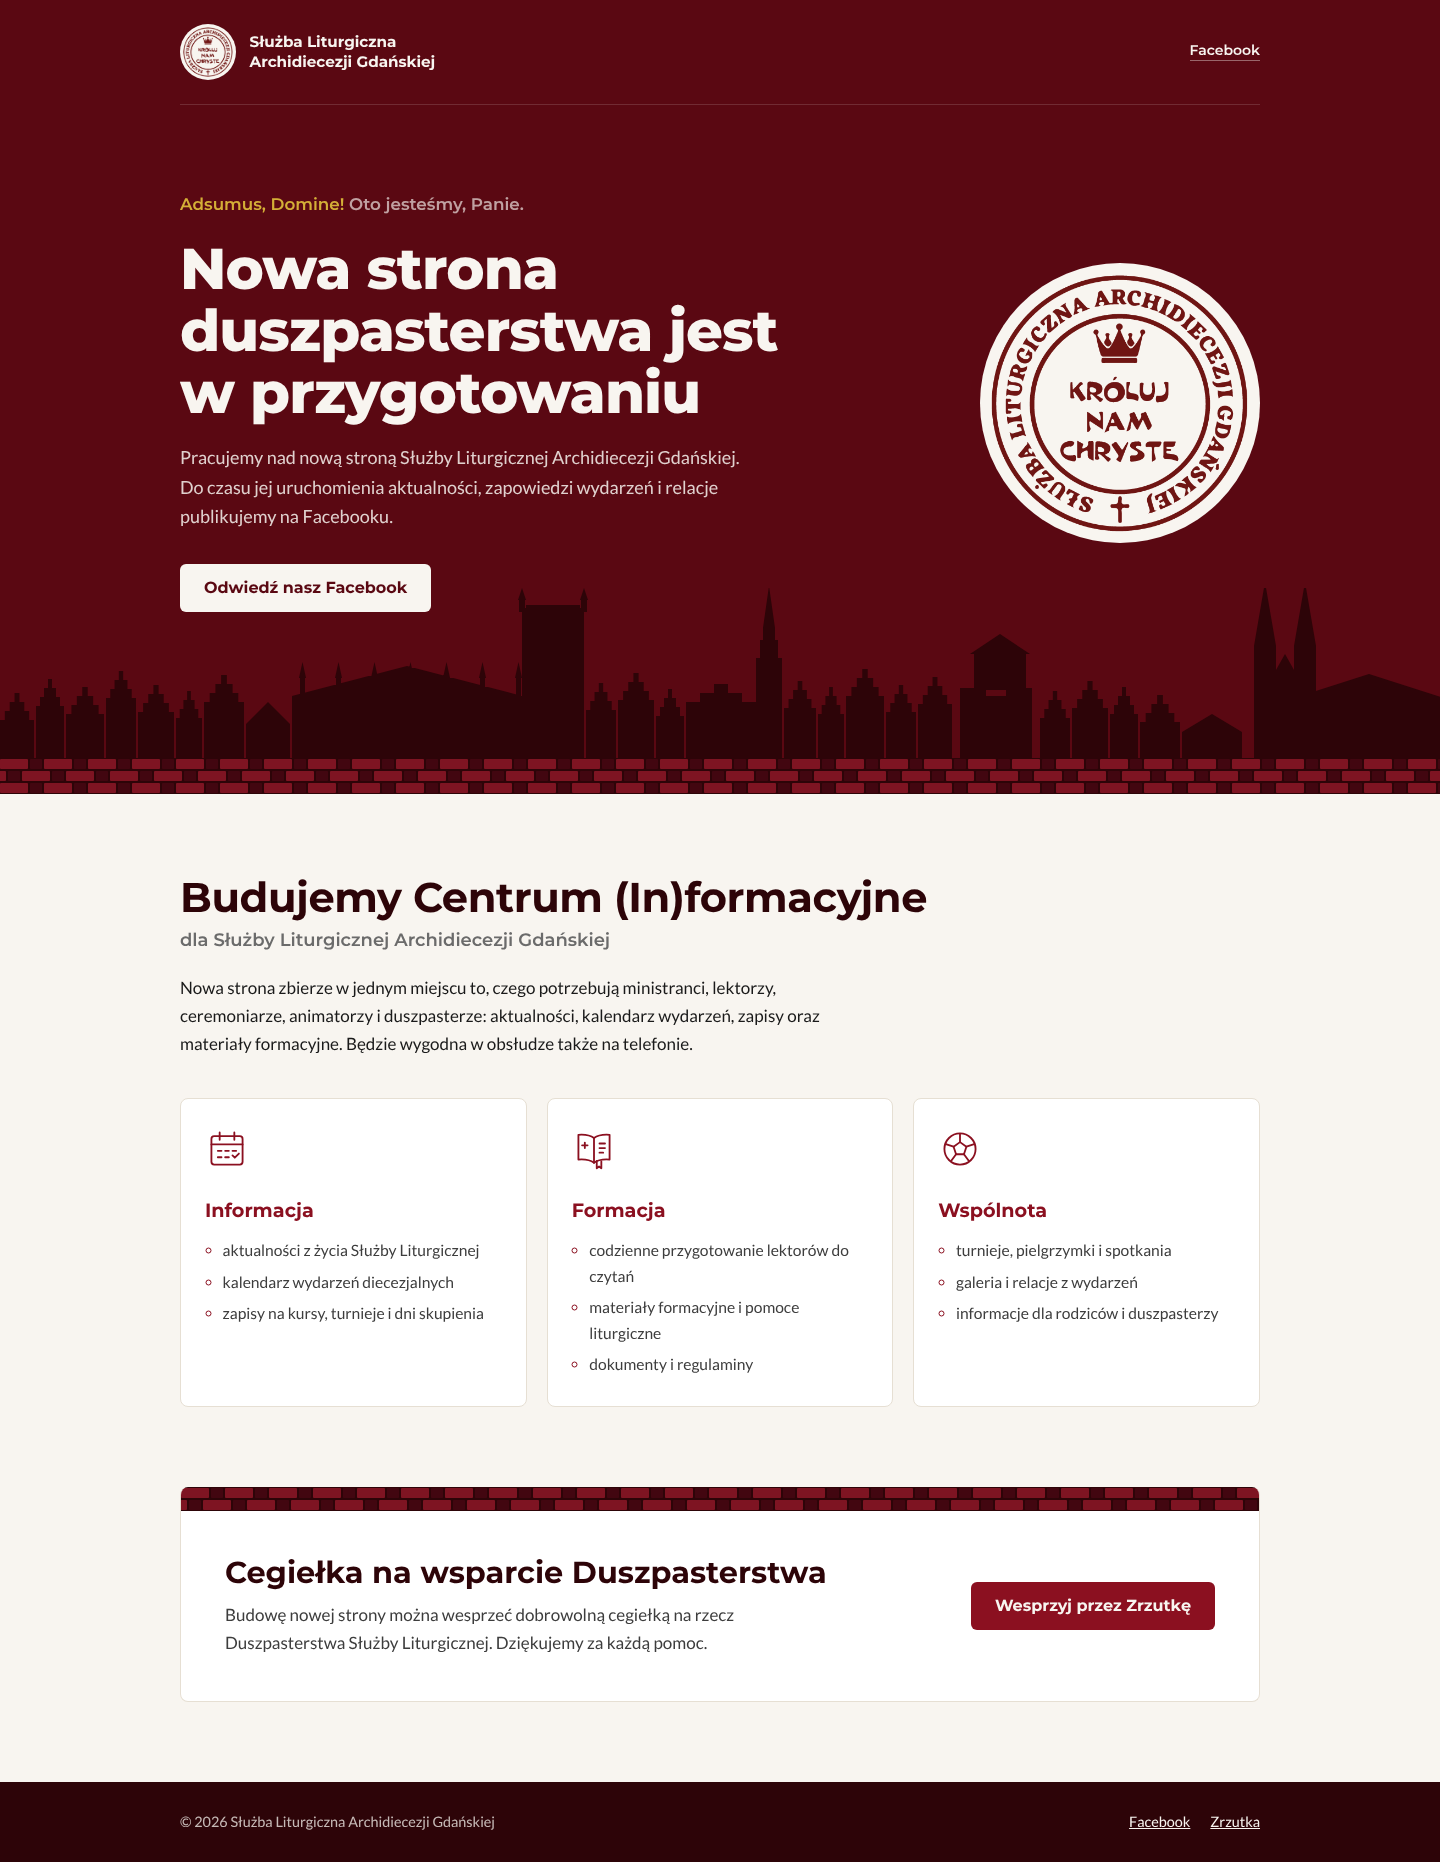
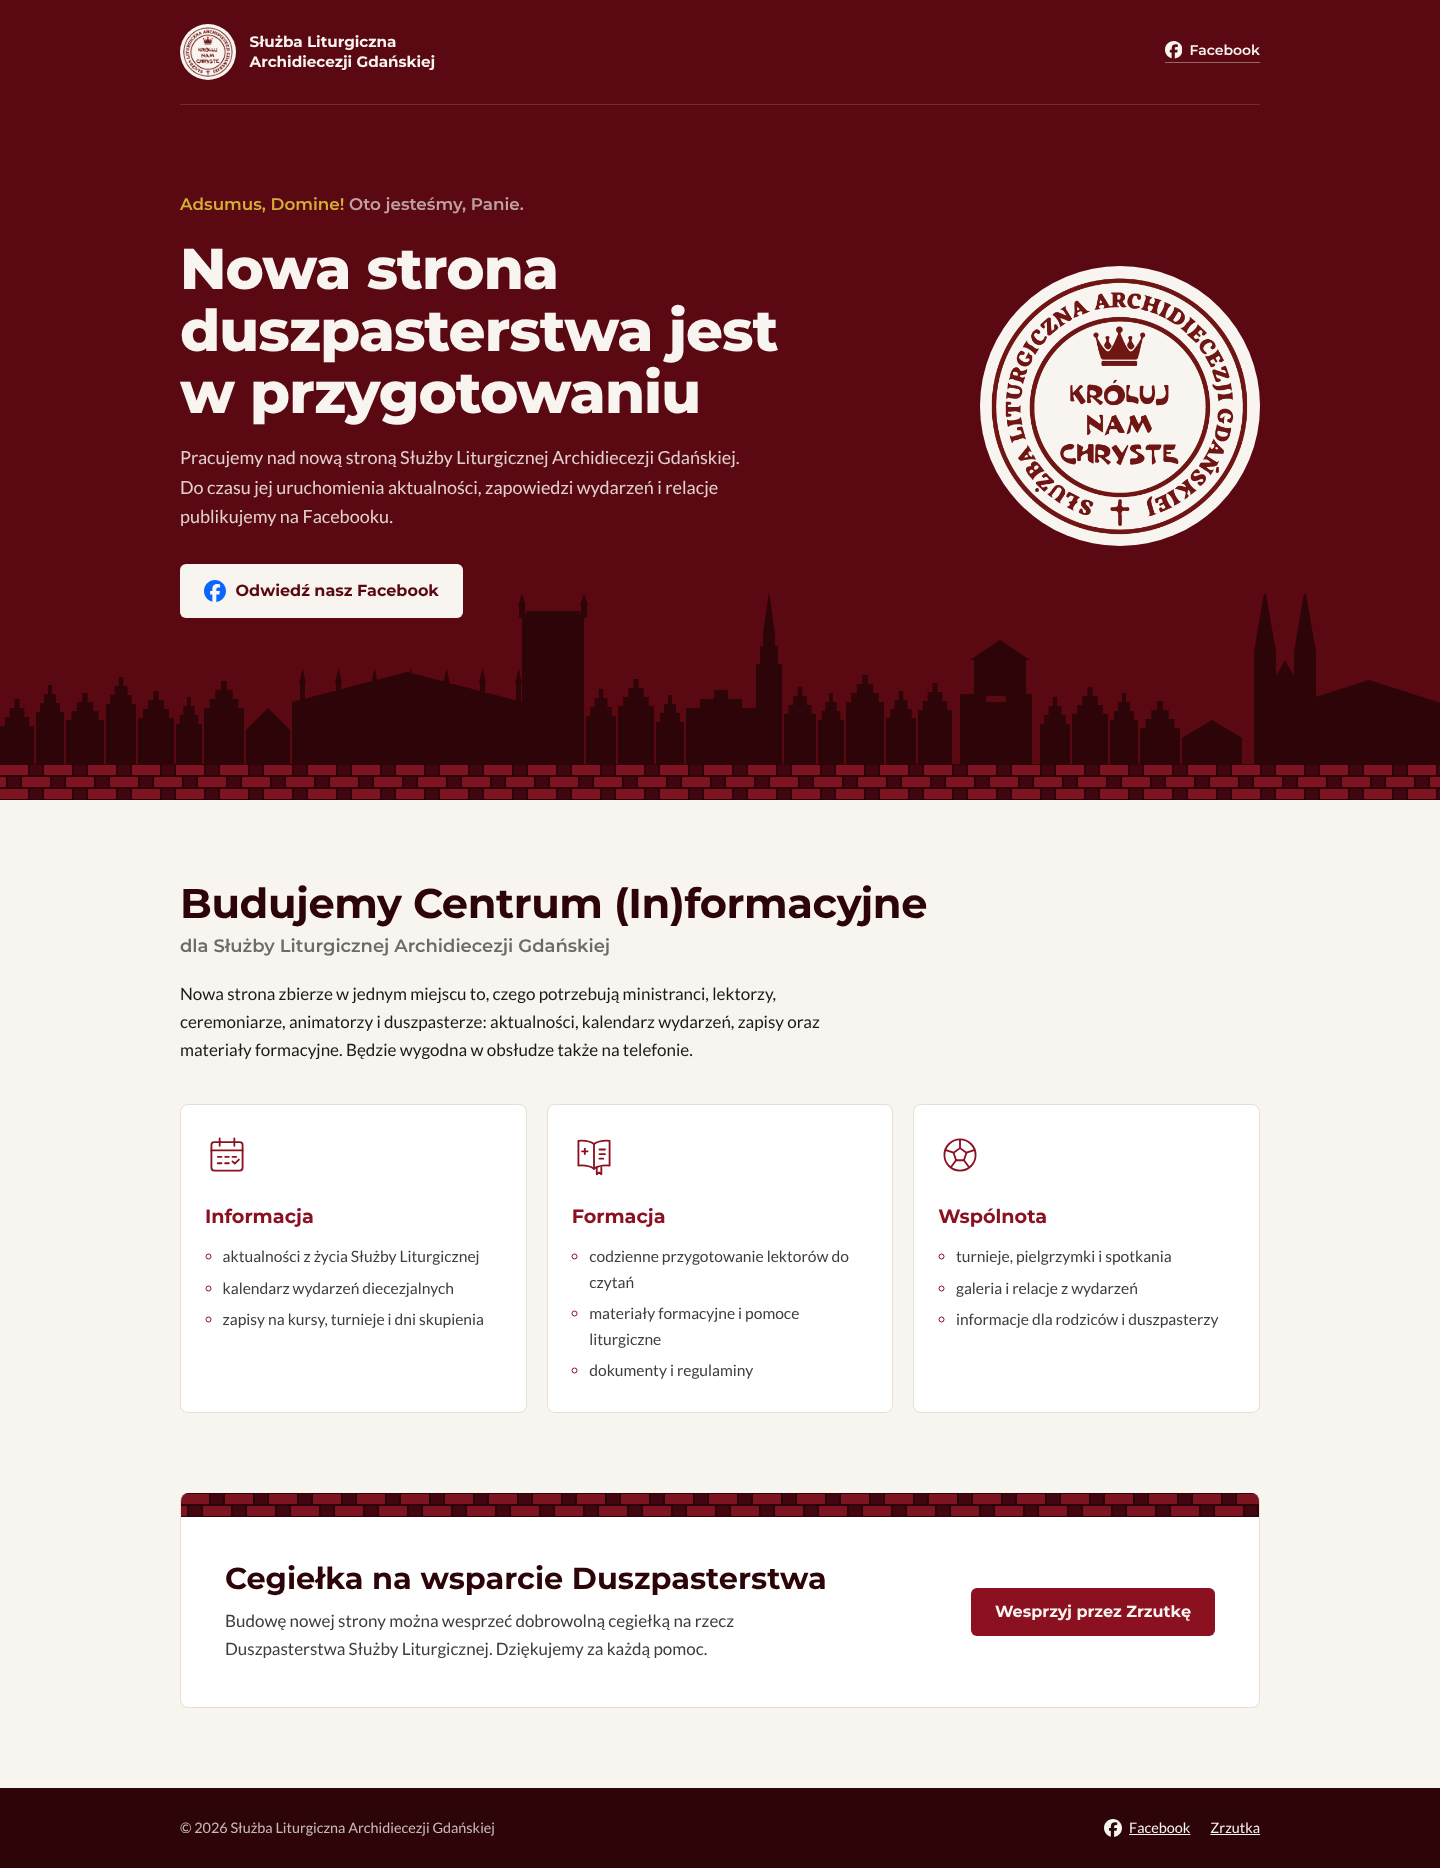
Strona 'w budowie': ikony Facebooka przy linkach
Claude-Session: https://claude.ai/code/session_014wjdpXKAeRWeDZxWiJyW6V

diff --git a/knc24-wkrotce/index.html b/knc24-wkrotce/index.html
@@ -70,6 +70,9 @@
     padding-bottom: 3px;
   }
   .top a:hover { border-color: var(--krem); }
+  .fb { width: 1.25em; height: 1.25em; flex: none; }
+  .top a, .stopka nav a { display: inline-flex; align-items: center; gap: .45rem; }
+  .btn--jasny .fb { width: 22px; height: 22px; color: #0866FF; }
 
   .hero__main {
     display: grid; grid-template-columns: 1fr auto; gap: 3rem; align-items: center;
@@ -103,7 +106,7 @@
     border-radius: 6px;
     transition: background-color .15s;
   }
-  .btn--jasny { background: var(--krem); color: var(--bordo-ciemne); }
+  .btn--jasny { background: var(--krem); color: var(--bordo-ciemne); display: inline-flex; align-items: center; gap: .6rem; }
   .btn--jasny:hover { background: var(--bialy); }
   .btn--bordo { background: var(--bordo); color: var(--krem); }
   .btn--bordo:hover { background: var(--bordo-ciemne); }
@@ -165,6 +168,7 @@
     .brand img { width: 46px; height: 46px; }
     .brand p { font-size: .7rem; }
     .btn { display: block; text-align: center; }
+    .btn--jasny { display: flex; justify-content: center; }
   }
 </style>
 </head>
@@ -177,7 +181,7 @@
         <img src="logo.png" alt="Logo Służby Liturgicznej Archidiecezji Gdańskiej" width="56" height="56">
         <p>Służba Liturgiczna<br>Archidiecezji Gdańskiej</p>
       </div>
-      <a href="https://www.facebook.com/sluzbaliturgicznaAG" target="_blank" rel="noopener">Facebook</a>
+      <a href="https://www.facebook.com/sluzbaliturgicznaAG" target="_blank" rel="noopener"><svg class="fb" viewBox="0 0 24 24" aria-hidden="true"><path fill="currentColor" d="M9.101 23.691v-7.98H6.627v-3.667h2.474v-1.58c0-4.085 1.848-5.978 5.858-5.978.401 0 .955.042 1.468.103a8.68 8.68 0 0 1 1.141.195v3.325a8.623 8.623 0 0 0-.653-.036 26.805 26.805 0 0 0-.733-.009c-.707 0-1.259.096-1.675.309a1.686 1.686 0 0 0-.679.622c-.258.42-.374.995-.374 1.752v1.297h3.919l-.386 2.103-.287 1.564h-3.246v8.245C19.396 23.238 24 18.179 24 12.044c0-6.627-5.373-12-12-12s-12 5.373-12 12c0 5.628 3.874 10.35 9.101 11.647Z"/></svg>Facebook</a>
     </div>
 
     <div class="hero__main">
@@ -185,7 +189,7 @@
         <p class="motto">Adsumus, Domine! <span>Oto jesteśmy, Panie.</span></p>
         <h1>Nowa strona duszpasterstwa jest w&nbsp;przygotowaniu</h1>
         <p class="hero__lead">Pracujemy nad nową stroną Służby Liturgicznej Archidiecezji Gdańskiej. Do czasu jej uruchomienia aktualności, zapowiedzi wydarzeń i relacje publikujemy na Facebooku.</p>
-        <a class="btn btn--jasny" href="https://www.facebook.com/sluzbaliturgicznaAG" target="_blank" rel="noopener">Odwiedź nasz Facebook</a>
+        <a class="btn btn--jasny" href="https://www.facebook.com/sluzbaliturgicznaAG" target="_blank" rel="noopener"><svg class="fb" viewBox="0 0 24 24" aria-hidden="true"><path fill="currentColor" d="M9.101 23.691v-7.98H6.627v-3.667h2.474v-1.58c0-4.085 1.848-5.978 5.858-5.978.401 0 .955.042 1.468.103a8.68 8.68 0 0 1 1.141.195v3.325a8.623 8.623 0 0 0-.653-.036 26.805 26.805 0 0 0-.733-.009c-.707 0-1.259.096-1.675.309a1.686 1.686 0 0 0-.679.622c-.258.42-.374.995-.374 1.752v1.297h3.919l-.386 2.103-.287 1.564h-3.246v8.245C19.396 23.238 24 18.179 24 12.044c0-6.627-5.373-12-12-12s-12 5.373-12 12c0 5.628 3.874 10.35 9.101 11.647Z"/></svg>Odwiedź nasz Facebook</a>
       </div>
       <img class="hero__logo" src="logo.png" alt="" width="280" height="280">
     </div>
@@ -252,7 +256,7 @@
   <div class="wrap">
     <p>© 2026 Służba Liturgiczna Archidiecezji Gdańskiej</p>
     <nav aria-label="Linki">
-      <a href="https://www.facebook.com/sluzbaliturgicznaAG" target="_blank" rel="noopener">Facebook</a>
+      <a href="https://www.facebook.com/sluzbaliturgicznaAG" target="_blank" rel="noopener"><svg class="fb" viewBox="0 0 24 24" aria-hidden="true"><path fill="currentColor" d="M9.101 23.691v-7.98H6.627v-3.667h2.474v-1.58c0-4.085 1.848-5.978 5.858-5.978.401 0 .955.042 1.468.103a8.68 8.68 0 0 1 1.141.195v3.325a8.623 8.623 0 0 0-.653-.036 26.805 26.805 0 0 0-.733-.009c-.707 0-1.259.096-1.675.309a1.686 1.686 0 0 0-.679.622c-.258.42-.374.995-.374 1.752v1.297h3.919l-.386 2.103-.287 1.564h-3.246v8.245C19.396 23.238 24 18.179 24 12.044c0-6.627-5.373-12-12-12s-12 5.373-12 12c0 5.628 3.874 10.35 9.101 11.647Z"/></svg>Facebook</a>
       <a href="https://zrzutka.pl/jtex6y" target="_blank" rel="noopener">Zrzutka</a>
     </nav>
   </div>
